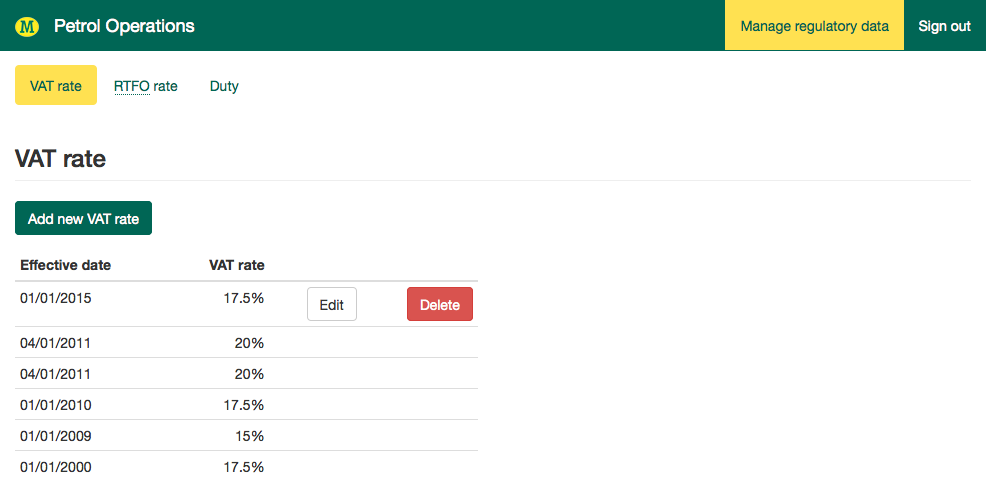
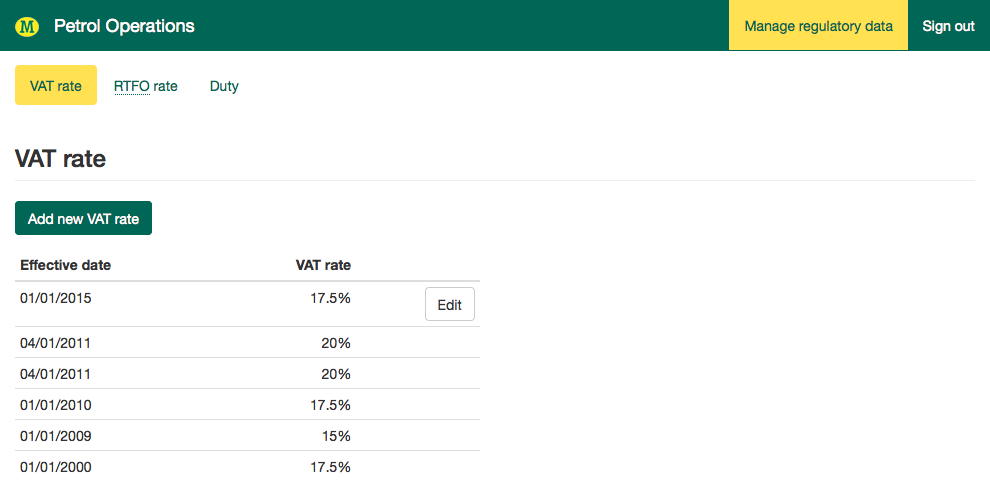
delete options

diff --git a/regdata-rtfo-deleted.html b/regdata-rtfo-deleted.html
@@ -33,20 +33,21 @@
 				<img alt="Morrisons logo" src="morrisonslogo.png" class="navbar-logo"> 
 				Petrol Operations</a>
 	        </div>
-		    <div class="navbar-collapse collapse">
+			<div class="navbar-collapse collapse">
 			  <ul class="nav navbar-nav navbar-right">
-		        <li class="active"><a href="regdata-vat.html">Manage regulatory data</a></li>			
+		        <li class="active"><a href="regdata-vat.html">Manage regulatory data</a></li>							
 				<li><a href="">Sign out</a></li>
 				</ul>
-			</div>	
+			</div>
+
 	      </div>
 	    </div>
 		<div class="container-fluid">
 			<div class="row">
 				<div class="col-xs-12">
 					<ul class="nav nav-pills">
-						<li class="active"><a href="regdata-vat.html">VAT rate</a></li>
-						<li><a href="regdata-rtfo.html"><acronym title="Renewable Transport Fuel Obligation">RTFO</acronym> rate</a></li>									
+						<li><a href="regdata-vat.html">VAT rate</a></li>
+						<li class="active"><a href="regdata-rtfo.html"><acronym title="Renewable Transport Fuel Obligation">RTFO</acronym> rate</a></li>									
 						<li><a href="regdata-duty.html">Duty</a></li>									
 					</ul>
 				</div>
@@ -55,27 +56,36 @@
 		<div class="container-fluid">
 			<div class="row">
 				<div class="col-xs-12">
-				<h3 class="page-header">Edit VAT rate</h3>
-				<form role="form">
-					<div class="row">
-						<div class="form-group col-xs-6 col-md-2">
-						<label class="control-label">Effective date</label>
-					    <input type="text" class="form-control" value="01/01/2011">	
-					  </div>
-					  <div class="form-group col-xs-6 col-md-2">
-						<label class="control-label">VAT rate</label>
-						<div class="input-group">
-					    <input type="text" class="form-control" value="17.5">	
-						<div class="input-group-addon">%</div>
+					<h3 class="page-header"><acronym title="Renewable Transport Fuel Obligation">RTFO</acronym> rate</h3>
+					<div class="alert alert-success"><p>RTFO rate deleted.</p></div>
+
+					
+					<form role="form">
+						<div class="form-group">	
+							<a class="btn btn-primary" href="regdata-vat-add.html">Add new RTFO rate</a>
 						</div>
-					  </div>
-				  </div>
-				  <a class="btn btn-primary" href="regdata-vat-saved.html">Save VAT rate</a>
-					<a class="btn text-danger pull-right" href="regdata-vat-delete.html">Delete RTFO rate</a>
-				</form>													
+					</form>				
+					<div class="row">
+					<div class="col-xs-12 col-md-6 col-lg-4">							
+					<table class="table table-condensed">
+						<thead>
+							<tr><th>Effective date</th><th>RTFO rate</th><th><!-- empty cell --></th></tr>
+						</thead>
+						<tbody>
+							<tr><td>15/04/2013</td><td>5.00%</td><td><!-- empty cell --></td></tr>
+							<tr><td>15/04/2012</td><td>4.50%</td><td><!-- empty cell --></td></tr>
+							<tr><td>15/04/2011</td><td>4.00%</td><td><!-- empty cell --></td></tr>
+							<tr><td>01/04/2010</td><td>3.50%</td><td><!-- empty cell --></td></tr>
+							<tr><td>01/01/2000</td><td>0.00%</td><td><!-- empty cell --></td></tr>
+						</tbody>
+					</table>
+					</div>	
+					</div>
+					</form>					
 				</div>
 			</div>	
-		</div>
+		</div>		
+
     <!-- Bootstrap core JavaScript
     ================================================== -->
     <!-- Placed at the end of the document so the pages load faster -->

diff --git a/regdata-vat-delete.html b/regdata-vat-delete.html
@@ -35,7 +35,7 @@
 	        </div>
 		    <div class="navbar-collapse collapse">
 			  <ul class="nav navbar-nav navbar-right">
-		        <li class="active"><a href="regdata-vat.html">Manage regulatory data</a></li>							
+		        <li class="active"><a href="regdata-vat.html">Manage regulatory data</a></li>			
 				<li><a href="">Sign out</a></li>
 				</ul>
 			</div>	
@@ -55,36 +55,29 @@
 		<div class="container-fluid">
 			<div class="row">
 				<div class="col-xs-12">
-					<h3 class="page-header">VAT rate</h3>
-					<div class="alert alert-success"><p>VAT rate deleted.</p></div>
-					
-					
-					<form role="form" class="">
-					<div class="form-group">	
-					<button class="btn btn-primary">Add new VAT rate</button>
-					</div>
-					</form>				
-					
+				<h3 class="page-header">Edit VAT rate</h3>
+				<div class="alert alert-danger"><p>Please confirm the deletion of the VAT rate by clicking on the delete option again.</p></div>
+				
+				<form role="form">
 					<div class="row">
-						<div class="col-xs-12 col-md-6 col-lg-4">							
-							<table class="table table-condensed">
-								<thead>
-									<tr><th>Effective date</th><th>VAT rate</th><th><!-- empty cell --></th></tr>
-								</thead>
-								<tbody>
-									<tr><td>04/01/2011</td><td>20%</td><td><!-- empty cell --></td></tr>
-									<tr><td>04/01/2011</td><td>20%</td><td><!-- empty cell --></td></tr>
-									<tr><td>01/01/2010</td><td>17.5%</td><td><!-- empty cell --></td></tr>
-									<tr><td>01/01/2009</td><td>15%</td><td><!-- empty cell --></td></tr>
-									<tr><td>01/01/2000</td><td>17.5%</td><td><!-- empty cell --></td></tr>							
-								</tbody>
-							</table>
+						<div class="form-group col-xs-6 col-md-2">
+						<label class="control-label">Effective date</label>
+					    <input type="text" class="form-control" value="01/01/2011">	
+					  </div>
+					  <div class="form-group col-xs-6 col-md-2">
+						<label class="control-label">VAT rate</label>
+						<div class="input-group">
+					    <input type="text" class="form-control" value="17.5">	
+						<div class="input-group-addon">%</div>
 						</div>
-					</div>												
+					  </div>
+				  </div>
+				  <a class="btn btn-primary" href="regdata-vat-saved.html">Save VAT rate</a>
+					<a class="btn text-danger pull-right" href="regdata-vat-deleted.html">Delete VAT rate</a>
+				</form>													
 				</div>
 			</div>	
-		</div>		
-
+		</div>
     <!-- Bootstrap core JavaScript
     ================================================== -->
     <!-- Placed at the end of the document so the pages load faster -->

diff --git a/regdata-vat-deleted.html b/regdata-vat-deleted.html
@@ -35,7 +35,7 @@
 	        </div>
 		    <div class="navbar-collapse collapse">
 			  <ul class="nav navbar-nav navbar-right">
-		        <li class="active"><a href="regdata-vat.html">Manage regulatory data</a></li>			
+		        <li class="active"><a href="regdata-vat.html">Manage regulatory data</a></li>							
 				<li><a href="">Sign out</a></li>
 				</ul>
 			</div>	
@@ -55,27 +55,36 @@
 		<div class="container-fluid">
 			<div class="row">
 				<div class="col-xs-12">
-				<h3 class="page-header">Edit VAT rate</h3>
-				<form role="form">
+					<h3 class="page-header">VAT rate</h3>
+					<div class="alert alert-success"><p>VAT rate deleted.</p></div>
+					
+					
+					<form role="form" class="">
+					<div class="form-group">	
+					<button class="btn btn-primary">Add new VAT rate</button>
+					</div>
+					</form>				
+					
 					<div class="row">
-						<div class="form-group col-xs-6 col-md-2">
-						<label class="control-label">Effective date</label>
-					    <input type="text" class="form-control" value="01/01/2011">	
-					  </div>
-					  <div class="form-group col-xs-6 col-md-2">
-						<label class="control-label">VAT rate</label>
-						<div class="input-group">
-					    <input type="text" class="form-control" value="17.5">	
-						<div class="input-group-addon">%</div>
+						<div class="col-xs-12 col-md-6 col-lg-4">							
+							<table class="table table-condensed">
+								<thead>
+									<tr><th>Effective date</th><th>VAT rate</th><th><!-- empty cell --></th></tr>
+								</thead>
+								<tbody>
+									<tr><td>04/01/2011</td><td>20%</td><td><!-- empty cell --></td></tr>
+									<tr><td>04/01/2011</td><td>20%</td><td><!-- empty cell --></td></tr>
+									<tr><td>01/01/2010</td><td>17.5%</td><td><!-- empty cell --></td></tr>
+									<tr><td>01/01/2009</td><td>15%</td><td><!-- empty cell --></td></tr>
+									<tr><td>01/01/2000</td><td>17.5%</td><td><!-- empty cell --></td></tr>							
+								</tbody>
+							</table>
 						</div>
-					  </div>
-				  </div>
-				  <a class="btn btn-primary" href="regdata-vat-saved.html">Save VAT rate</a>
-					<a class="btn text-danger pull-right" href="regdata-vat-delete.html">Delete RTFO rate</a>
-				</form>													
+					</div>												
 				</div>
 			</div>	
-		</div>
+		</div>		
+
     <!-- Bootstrap core JavaScript
     ================================================== -->
     <!-- Placed at the end of the document so the pages load faster -->

diff --git a/regdata-rtfo-delete.html b/regdata-rtfo-delete.html
@@ -57,34 +57,29 @@
 			<div class="row">
 				<div class="col-xs-12">
 					<h3 class="page-header"><acronym title="Renewable Transport Fuel Obligation">RTFO</acronym> rate</h3>
-					<div class="alert alert-success"><p>RTFO rate deleted.</p></div>
-
-					
+					<div class="alert alert-danger"><p>Please confirm the deletion of the RTFO rate by clicking on the delete option again.</p></div>
 					<form role="form">
-						<div class="form-group">	
-							<a class="btn btn-primary" href="regdata-vat-add.html">Add new RTFO rate</a>
-						</div>
-					</form>				
-					<div class="row">
-					<div class="col-xs-12 col-md-6 col-lg-4">							
-					<table class="table table-condensed">
-						<thead>
-							<tr><th>Effective date</th><th>RTFO rate</th><th><!-- empty cell --></th></tr>
-						</thead>
-						<tbody>
-							<tr><td>15/04/2013</td><td>5.00%</td><td><!-- empty cell --></td></tr>
-							<tr><td>15/04/2012</td><td>4.50%</td><td><!-- empty cell --></td></tr>
-							<tr><td>15/04/2011</td><td>4.00%</td><td><!-- empty cell --></td></tr>
-							<tr><td>01/04/2010</td><td>3.50%</td><td><!-- empty cell --></td></tr>
-							<tr><td>01/01/2000</td><td>0.00%</td><td><!-- empty cell --></td></tr>
-						</tbody>
-					</table>
-					</div>	
-					</div>
-					</form>					
+						<div class="row">
+							<div class="form-group col-xs-6 col-md-2">
+							<label class="control-label">Effective date</label>
+						    <input type="text" class="form-control" value="15/04/2014" placeholder="DD/MM/YYYY">	
+						  </div>
+						  <div class="form-group col-xs-6 col-md-2">
+							<label class="control-label">RTFO rate</label>
+							<div class="input-group">
+						    <input type="text" class="form-control" value="5.00">	
+							<div class="input-group-addon">%</div>
+							</div>
+						  </div>
+
+					  </div>
+					  <a class="btn btn-primary" href="regdata-rtfo-saved.html">Save RTFO rate</a>
+						<a class="btn text-danger pull-right" href="regdate-rtfo-deleted.html">Delete RTFO rate</a>
+					</form>													
 				</div>
 			</div>	
-		</div>		
+		</div>
+
 
     <!-- Bootstrap core JavaScript
     ================================================== -->

diff --git a/regdata-rtfo-edit.html b/regdata-rtfo-edit.html
@@ -57,6 +57,7 @@
 			<div class="row">
 				<div class="col-xs-12">
 					<h3 class="page-header"><acronym title="Renewable Transport Fuel Obligation">RTFO</acronym> rate</h3>
+					
 					<form role="form">
 						<div class="row">
 							<div class="form-group col-xs-6 col-md-2">
@@ -70,22 +71,9 @@
 							<div class="input-group-addon">%</div>
 							</div>
 						  </div>
-
 					  </div>
 					  <a class="btn btn-primary" href="regdata-rtfo-saved.html">Save RTFO rate</a>
-						<a class="text-danger pull-right" href="#" data-toggle="modal" data-target="#myModal"><span class="glyphicon glyphicon-remove"></span> Delete RTFO rate</a>
-						<!-- delete modal -->
-						<div class="modal fade" id="myModal" tabindex="-1" role="dialog" aria-labelledby="myModalLabel" aria-hidden="true">
-						  <div class="modal-dialog modal-sm">
-						    <div class="modal-content">
-						      <div class="modal-body">
-							    <a class="btn btn-danger btn-block" href="regdata-rtfo-delete.html">Delete RTFO rate</a>
-						        <button type="button" class="btn btn-default btn-block" data-dismiss="modal" aria-label="Close"><span aria-hidden="true">Cancel</span></button>
-						      </div>
-						    </div>
-						  </div>
-						</div>
-						<!-- /end delete modal -->
+						<a class="btn text-danger pull-right" href="regdata-rtfo-delete.html">Delete RTFO rate</a>
 					</form>													
 				</div>
 			</div>	

diff --git a/regdata-duty-delete.html b/regdata-duty-delete.html
@@ -57,6 +57,8 @@
 				<div class="col-xs-12">
 					<h3 class="page-header">Duty</h3>
 					<p class="lead">Duty amounts are entered in pence per litre <span class="badge badge-unit-price" title="Unit price">ppl</span> or pounds per ton <span class="badge badge-unit-price" title="Unit price">&pound;/t</span> for Med products.</p> 
+					<div class="alert alert-danger"><p>Please confirm the deletion of the duty amounts by clicking on the delete option again.</p></div>
+					
 					<form role="form">
 						<div class="row">
 						  <div class="form-group col-xs-12 col-sm-2">
@@ -117,7 +119,7 @@
 						  </div>
 						</div>	
   						<a class="btn btn-primary" href="regdata-duty-saved.html">Save duty amounts</a>	
-						<a class="btn text-danger pull-right" href="regdata-duty-delete.html">Delete RTFO rate</a>
+						<a class="btn text-danger pull-right" href="regdata-duty-deleted.html">Delete duty amounts</a>
 					</form>											
 				</div>
 			</div>	
